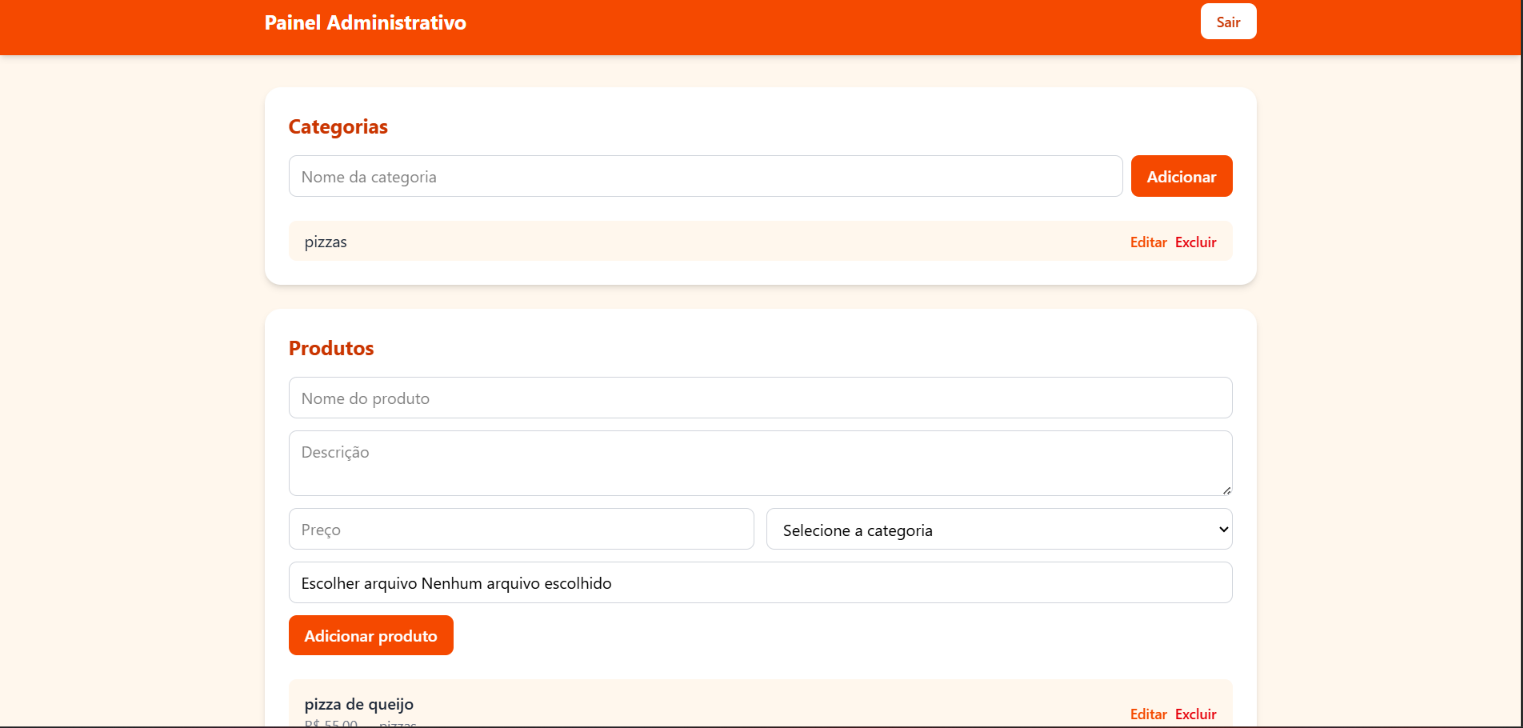
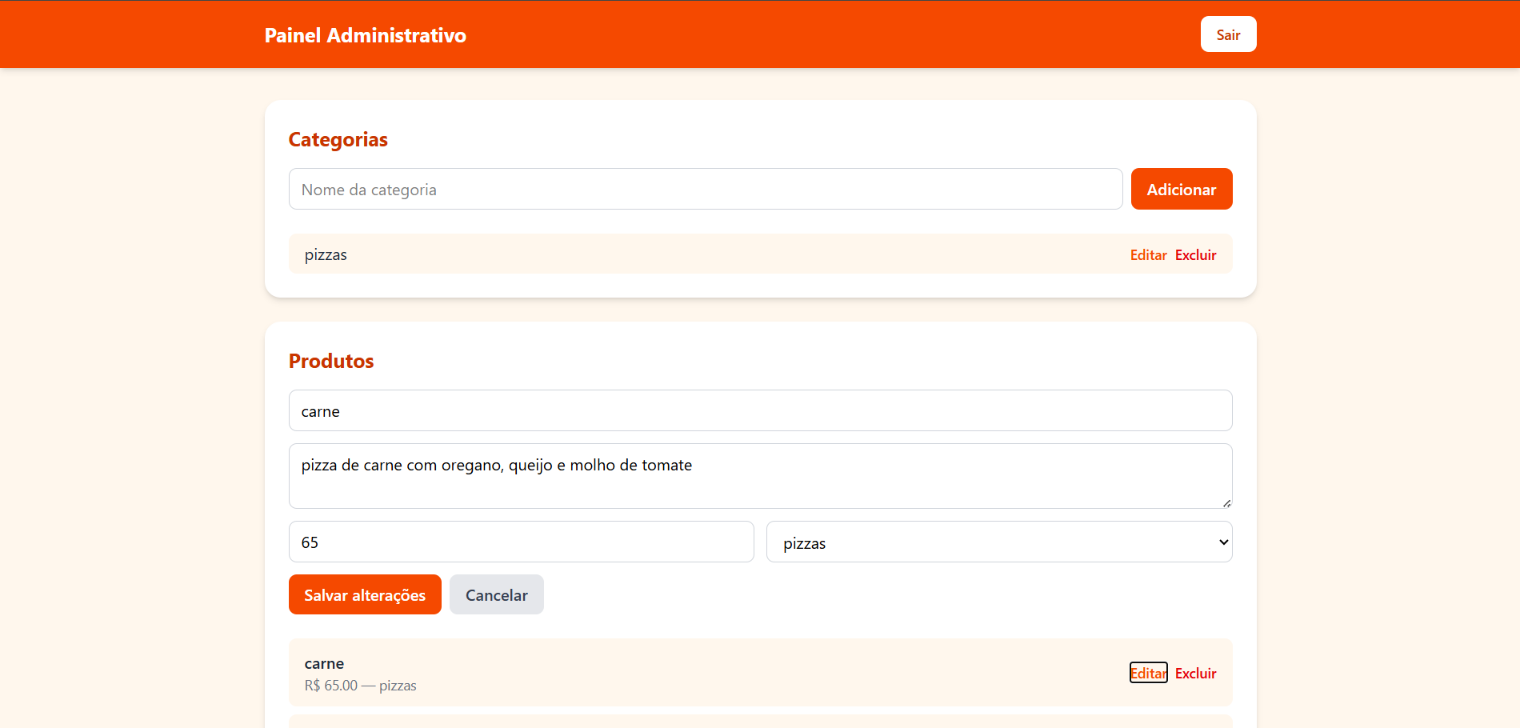
docs: atualiza README removendo referências a upload de imagem

diff --git a/README.md b/README.md
@@ -20,13 +20,13 @@ Sistema fullstack de cardápio digital com painel administrativo, desenvolvido c
 
 ##  Sobre o projeto
 
-O Cardápio Digital permite que um estabelecimento cadastre categorias e produtos (com nome, descrição, preço e imagem) através de um painel administrativo protegido por autenticação, enquanto os clientes visualizam o cardápio em uma página pública, organizada por categoria.
+O Cardápio Digital permite que um estabelecimento cadastre categorias e produtos (com nome, descrição e preço) através de um painel administrativo protegido por autenticação, enquanto os clientes visualizam o cardápio em uma página pública, organizada por categoria.
 
 ### Principais funcionalidades
 
 - ✅ Autenticação com JWT (login do administrador)
 - ✅ CRUD completo de categorias
-- ✅ CRUD completo de produtos, com upload de imagem
+- ✅ CRUD completo de produtos
 - ✅ Listagem pública do cardápio, filtrada por categoria
 - ✅ Proteção de rotas no frontend (painel admin acessível apenas autenticado)
 - ✅ API REST documentada e organizada em camadas (Controller-Service-Repository)
@@ -40,7 +40,6 @@ O Cardápio Digital permite que um estabelecimento cadastre categorias e produto
 - **Prisma ORM** + **MySQL** — modelagem e persistência de dados
 - **JWT** (`jsonwebtoken`) — autenticação
 - **bcryptjs** — hash de senhas
-- **Multer** — upload de imagens
 - **Helmet** + **express-rate-limit** + **CORS** — segurança da API
 
 ### Frontend
@@ -59,7 +58,7 @@ O Cardápio Digital permite que um estabelecimento cadastre categorias e produto
 
 O projeto é dividido em duas pastas principais: `backend` e `frontend`.
 
-Dentro do `backend`, segui o padrão que aprendi no curso de Node que fiz: rotas (`routes`) chamando controllers (`controllers`), com o Prisma cuidando do banco. Tem também uma pasta de `middlewares` (autenticação) e `uploads`, onde ficam as imagens enviadas.
+Dentro do `backend`, segui o padrão que aprendi no curso de Node que fiz: rotas (`routes`) chamando controllers (`controllers`), com o Prisma cuidando do banco. Tem também uma pasta de `middlewares`, responsável pela autenticação.
 
 No `frontend`, as páginas ficam em `pages` (Cardápio, Login, Admin), os componentes que se repetem em `components`, e a configuração do Axios em `services`.
 
@@ -129,8 +128,8 @@ Durante o desenvolvimento, alguns problemas reais precisaram ser resolvidos — 
 - **Migrations em produção**: o banco do Railway precisa que as migrations do Prisma sejam executadas no deploy (`npx prisma migrate deploy`), não apenas localmente. Isso foi configurado no `startCommand` do `railway.json`.
 - **`trust proxy` no Express**: hospedagens como o Railway colocam a aplicação atrás de um proxy reverso. Sem `app.set('trust proxy', 1)`, bibliotecas como `express-rate-limit` quebram em produção ao identificar o IP do cliente.
 - **Roteamento de SPA na Vercel**: rotas do React Router (como `/admin/login`) retornavam 404 em produção, pois a Vercel tentava localizar arquivos físicos. Resolvido com um `vercel.json` com regra de rewrite para `index.html`.
-- **Variáveis de ambiente para URLs**: tanto a URL da API quanto a URL das imagens precisaram migrar de valores fixos (`localhost`) para variáveis de ambiente (`VITE_API_URL`), permitindo que o mesmo código funcione em desenvolvimento e produção.
-- **Armazenamento de imagens**: o Railway utiliza um sistema de arquivos efêmero — uploads feitos via Multer não persistem entre deploys. Para um ambiente de produção real, a evolução natural seria migrar para um serviço de armazenamento externo (ex: Cloudinary ou AWS S3).
+- **Variáveis de ambiente para URLs**: a URL da API precisou migrar de um valor fixo (`localhost`) para uma variável de ambiente (`VITE_API_URL`), permitindo que o mesmo código funcione em desenvolvimento e produção.
+- **Upload de imagem: o que decidi tirar e por quê**: o projeto inicialmente contava com upload de imagem dos produtos via Multer + Cloudinary. Depois de resolver o problema de filesystem efêmero do Railway (uploads locais não persistem entre deploys) migrando para um serviço externo, surgiu um novo erro 500 na integração com o Cloudinary em produção. Ao investigar, decidi remover o upload de imagem do escopo do projeto: o esforço de depurar e manter uma integração externa não agregava ao que eu queria demonstrar nesse projeto — um CRUD completo, com autenticação e arquitetura em camadas bem feitos. Ficou registrada aqui essa decisão porque avaliar custo x benefício de uma funcionalidade também é trabalho de desenvolvedor, não só escrever código.
 
 ---
 